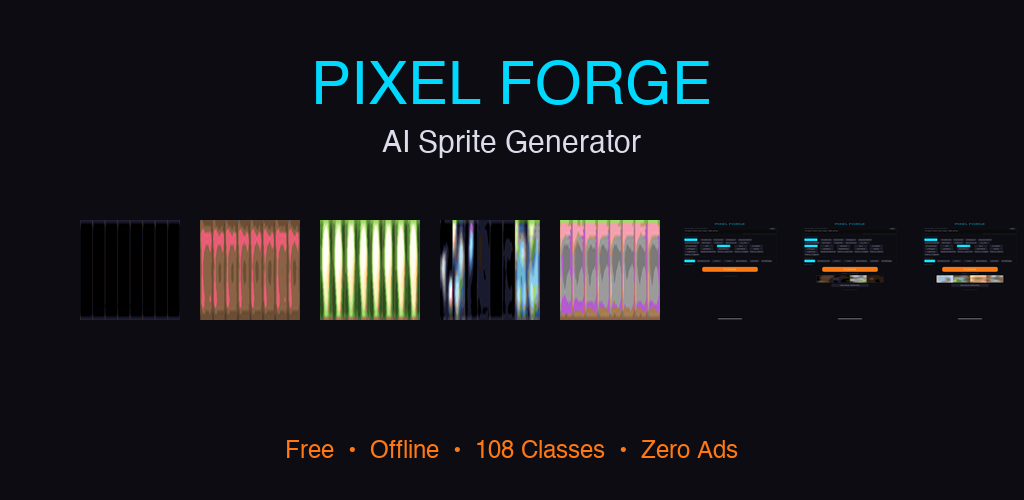
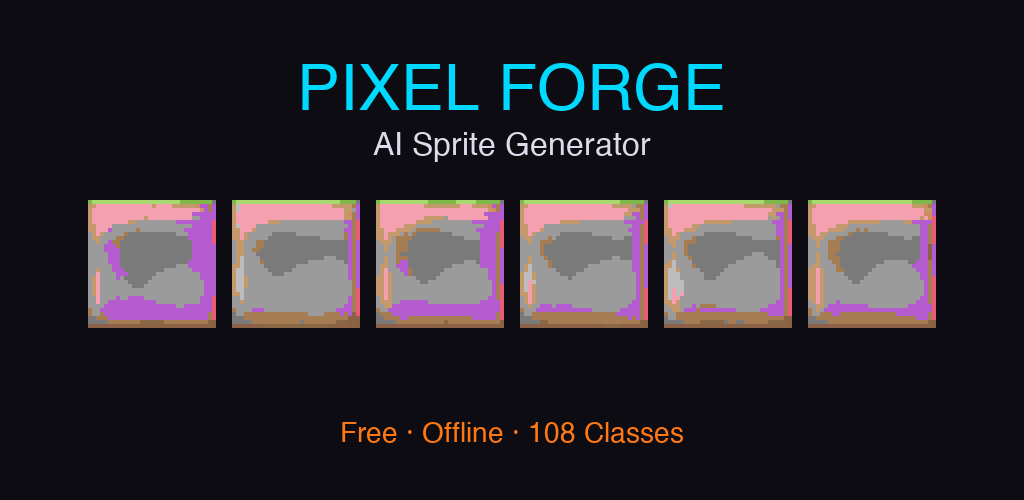
add feature-graphic.py script for repeatable Play Store graphic generation

Changed region(s): [[0.0625, 0.39, 1.0, 0.66], [0.2812, 0.12, 0.7188, 0.33], [0.2812, 0.84, 0.7188, 0.93]]

diff --git a/scripts/feature-graphic.py b/scripts/feature-graphic.py
@@ -1,0 +1,153 @@
+#!/usr/bin/env python3
+"""Generate Play Store feature graphic (1024x500)."""
+
+import os
+import glob
+from PIL import Image, ImageDraw, ImageFont
+
+ROOT = os.path.dirname(os.path.dirname(os.path.abspath(__file__)))
+SCREENSHOTS = os.path.join(ROOT, "assets", "store", "screenshots")
+OUT = os.path.join(ROOT, "assets", "store", "feature-graphic.png")
+
+WIDTH, HEIGHT = 1024, 500
+BG = "#0c0c12"
+CYAN = "#00d9ff"
+WHITE = "#dcdceb"
+ORANGE = "#ff7814"
+SPRITE_SZ = 32
+SCALE = 4
+SCALED = SPRITE_SZ * SCALE  # 128
+
+
+def sprite_colorfulness(sprite):
+    """Score a sprite by color variance (more colorful = higher).
+    Returns 0 for near-black or mostly transparent sprites."""
+    pixels = list(sprite.getdata())
+    if not pixels:
+        return 0
+    unique = set()
+    total_brightness = 0
+    visible = 0
+    for p in pixels:
+        r, g, b = p[0], p[1], p[2]
+        a = p[3] if len(p) > 3 else 255
+        if a < 128:
+            continue
+        visible += 1
+        unique.add((r, g, b))
+        total_brightness += r + g + b
+    # Skip mostly transparent or very dark sprites
+    if visible < len(pixels) * 0.3:
+        return 0
+    avg_brightness = total_brightness / max(visible, 1)
+    if avg_brightness < 60:
+        return 0
+    return len(unique) * 10 + total_brightness
+
+
+def extract_sprites(grid_path):
+    """Extract 32x32 sprites from an 8-wide grid."""
+    img = Image.open(grid_path).convert("RGBA")
+    w, h = img.size
+    cols = w // SPRITE_SZ
+    rows = h // SPRITE_SZ
+    sprites = []
+    for row in range(rows):
+        for col in range(cols):
+            x0 = col * SPRITE_SZ
+            y0 = row * SPRITE_SZ
+            sprite = img.crop((x0, y0, x0 + SPRITE_SZ, y0 + SPRITE_SZ))
+            sprites.append(sprite)
+    return sprites
+
+
+def pick_best_per_grid(grids, n):
+    """Pick top sprites across all grids, filtering dark/empty ones."""
+    all_scored = []
+    for g in grids:
+        sprites = extract_sprites(g)
+        for s in sprites:
+            score = sprite_colorfulness(s)
+            if score > 0:
+                all_scored.append((score, s))
+
+    all_scored.sort(key=lambda x: x[0], reverse=True)
+    return [s[1] for s in all_scored[:n]]
+
+
+def load_font(size):
+    """Try to load a truetype font, fall back to default."""
+    paths = [
+        "/System/Library/Fonts/Helvetica.ttc",
+        "/System/Library/Fonts/SFNSMono.ttf",
+        "/System/Library/Fonts/Monaco.dfont",
+        "/usr/share/fonts/truetype/dejavu/DejaVuSans-Bold.ttf",
+        "/usr/share/fonts/truetype/liberation/LiberationSans-Bold.ttf",
+    ]
+    for p in paths:
+        if os.path.exists(p):
+            try:
+                return ImageFont.truetype(p, size)
+            except Exception:
+                continue
+    return ImageFont.load_default()
+
+
+def main():
+    # Collect grids
+    grids = sorted(glob.glob(os.path.join(SCREENSHOTS, "*_grid.png")))
+    total = sum(len(extract_sprites(g)) for g in grids)
+    print(f"Found {total} sprites from {len(grids)} grids")
+
+    # Determine sprite count: 8 if they fit, else 6
+    sprite_count = 8
+    row_width = sprite_count * SCALED + (sprite_count - 1) * 16
+    if row_width > WIDTH:
+        sprite_count = 6
+        row_width = sprite_count * SCALED + (sprite_count - 1) * 16
+
+    best = pick_best_per_grid(grids, sprite_count)
+    print(f"Selected {len(best)} sprites, row width = {row_width}px")
+
+    # Create canvas
+    canvas = Image.new("RGBA", (WIDTH, HEIGHT), BG)
+    draw = ImageDraw.Draw(canvas)
+
+    # Fonts
+    font_title = load_font(64)
+    font_sub = load_font(32)
+    font_bottom = load_font(28)
+
+    # Title
+    bbox = draw.textbbox((0, 0), "PIXEL FORGE", font=font_title)
+    tw = bbox[2] - bbox[0]
+    draw.text(((WIDTH - tw) // 2, 60), "PIXEL FORGE", fill=CYAN, font=font_title)
+
+    # Subtitle
+    bbox = draw.textbbox((0, 0), "AI Sprite Generator", font=font_sub)
+    tw = bbox[2] - bbox[0]
+    draw.text(((WIDTH - tw) // 2, 130), "AI Sprite Generator", fill=WHITE, font=font_sub)
+
+    # Sprite row
+    x_start = (WIDTH - row_width) // 2
+    y_row = 200
+    for i, sprite in enumerate(best):
+        scaled = sprite.resize((SCALED, SCALED), Image.NEAREST)
+        x = x_start + i * (SCALED + 16)
+        canvas.paste(scaled, (x, y_row), scaled)
+
+    # Bottom text
+    bottom_text = "Free \u00b7 Offline \u00b7 108 Classes"
+    bbox = draw.textbbox((0, 0), bottom_text, font=font_bottom)
+    tw = bbox[2] - bbox[0]
+    draw.text(((WIDTH - tw) // 2, 420), bottom_text, fill=ORANGE, font=font_bottom)
+
+    # Save
+    os.makedirs(os.path.dirname(OUT), exist_ok=True)
+    canvas.save(OUT, "PNG")
+    print(f"Saved: {OUT}")
+    print(f"Size: {os.path.getsize(OUT)} bytes")
+
+
+if __name__ == "__main__":
+    main()
